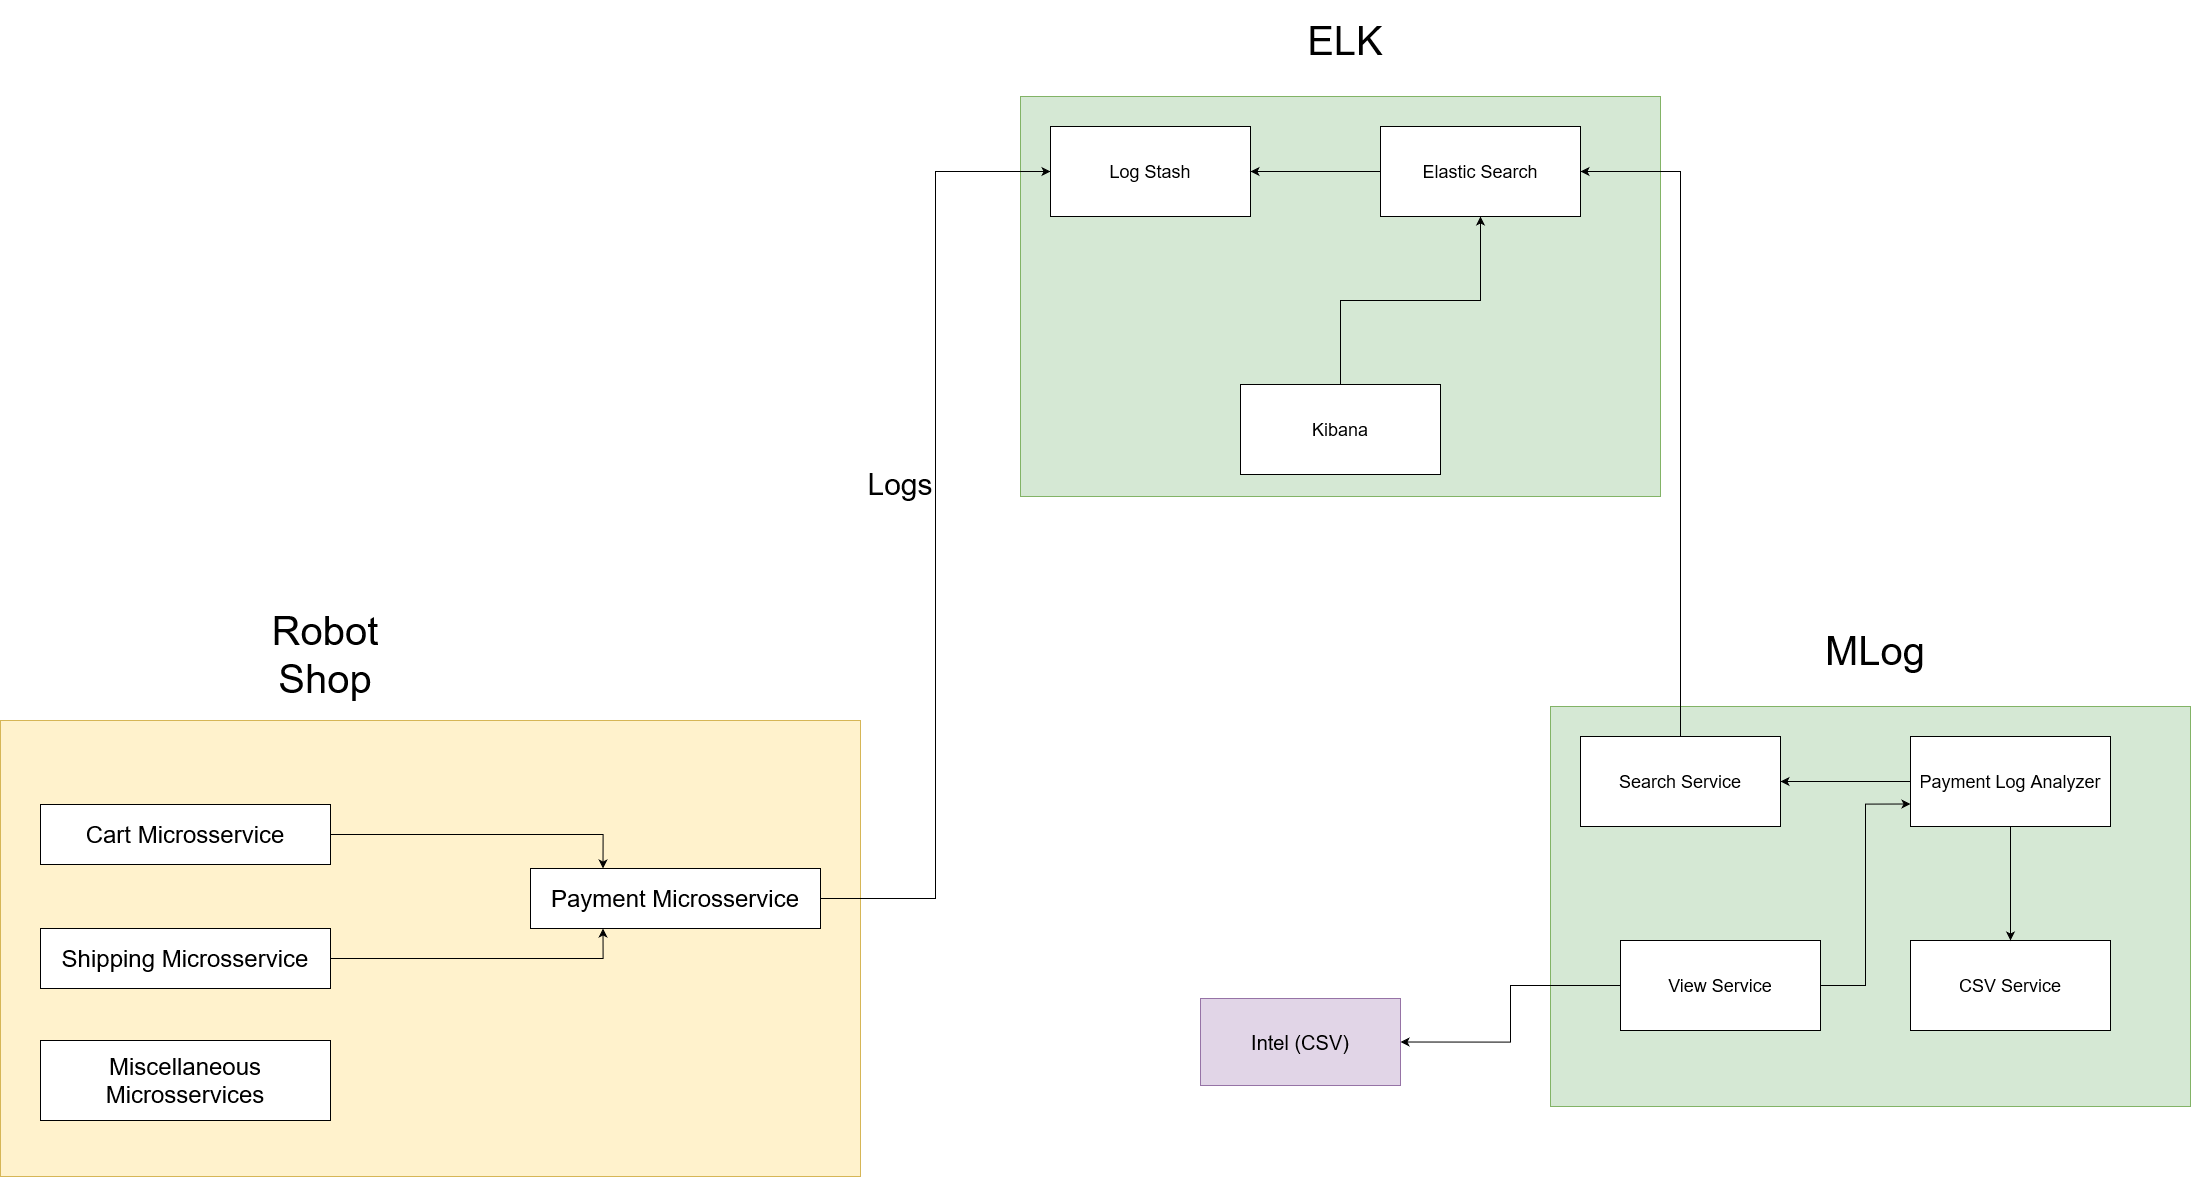
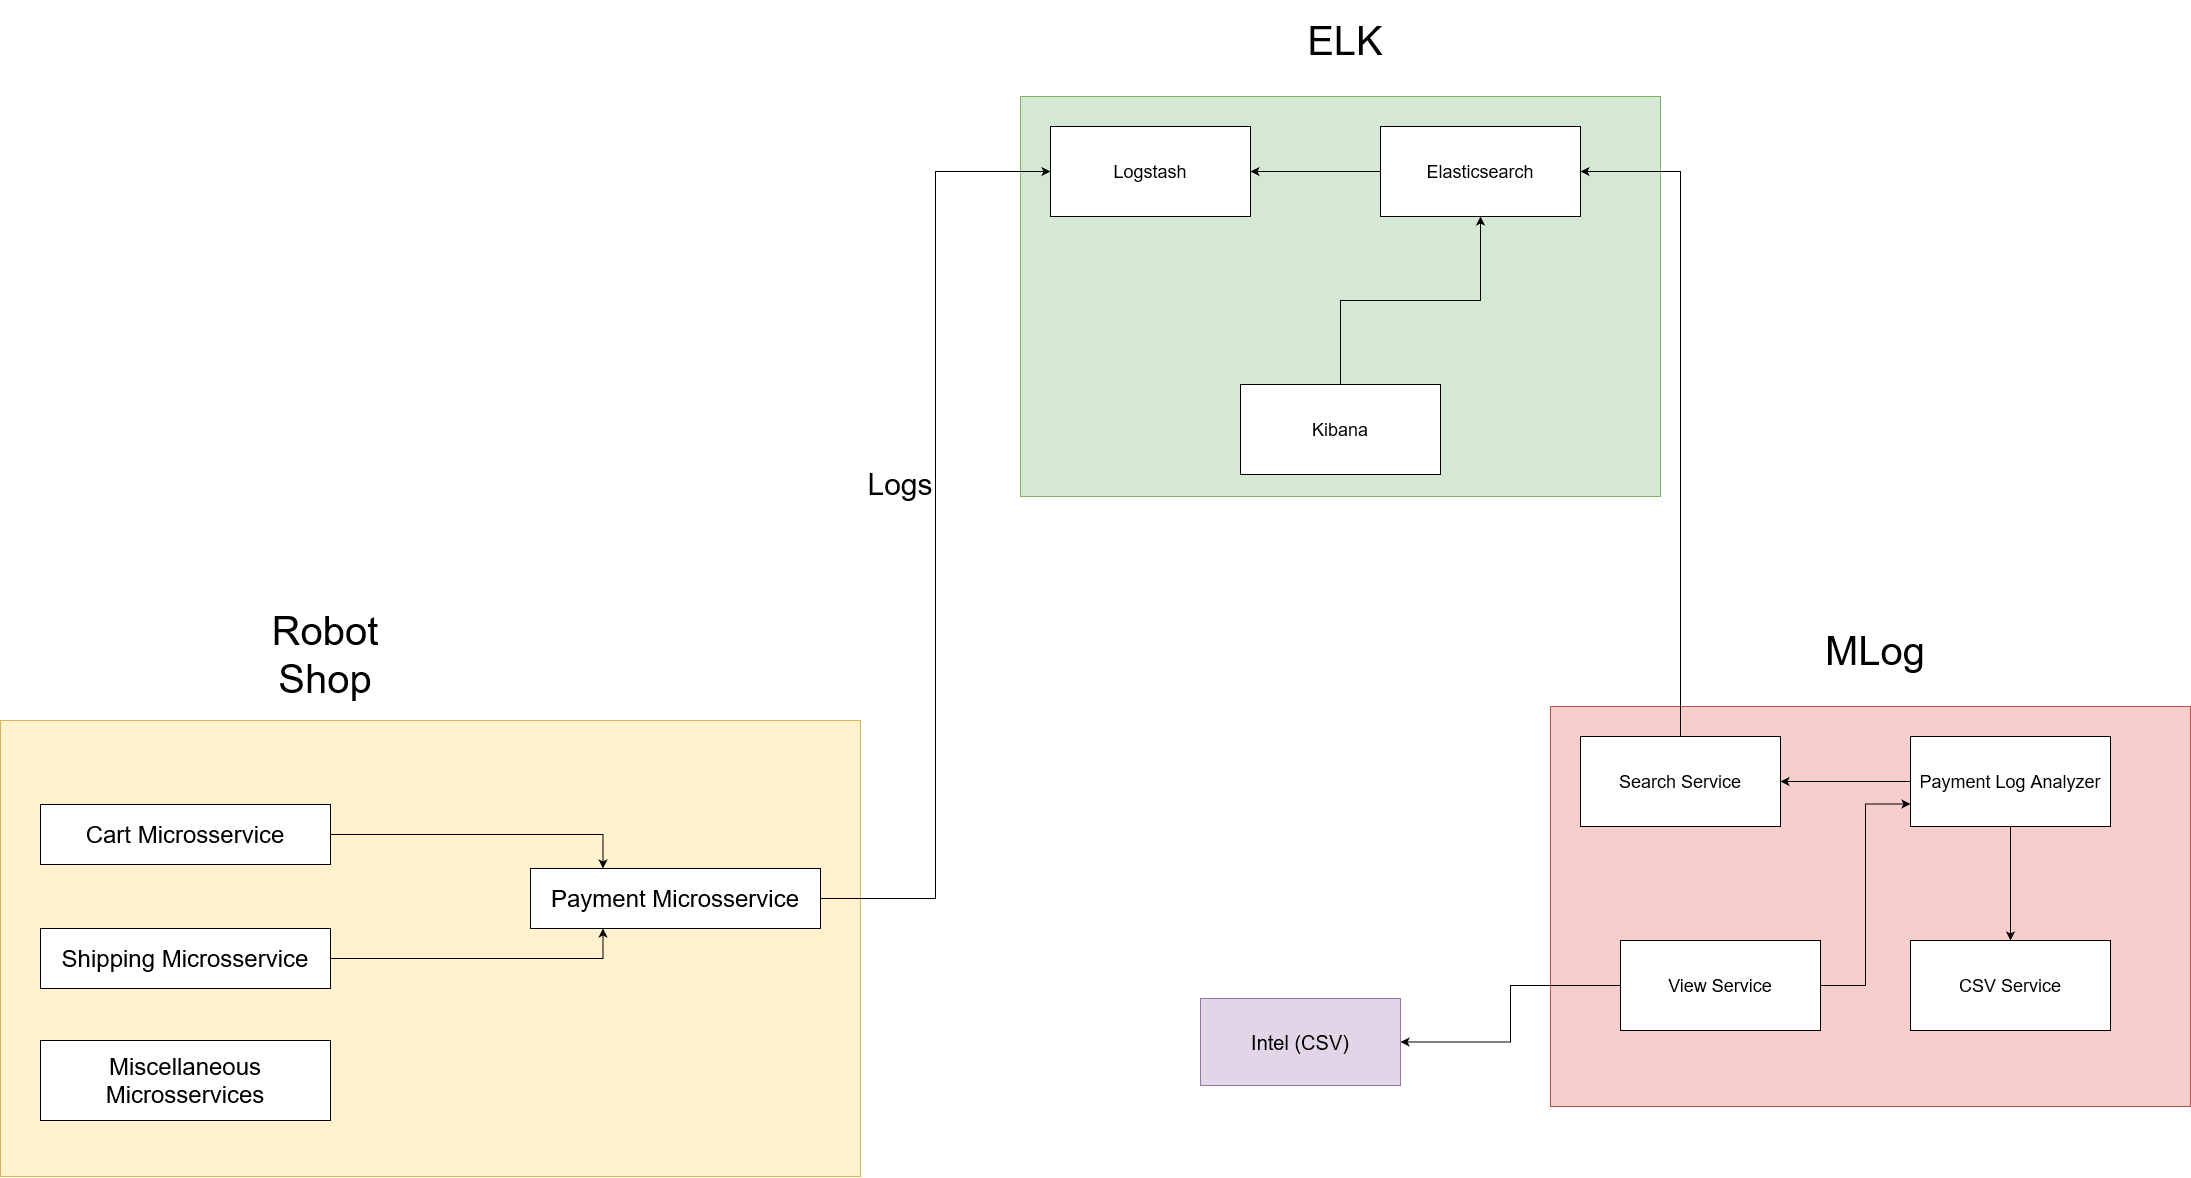
Article 1.1 update (#24)
* article removed

* article updated

diff --git a/article/sections/architecture.tex b/article/sections/architecture.tex
@@ -11,7 +11,7 @@ The architecture used on this project is the integration of three systems: Robot
 
 \subsection{Robot Shop}
 
-The e-commerce that has the logs analyzed on this paper is the Robot Shop \cite{robotshop}, it is a simple microservices-based e-commerce with open source. There are 12 services on the Robot Shop, but the information analyzed is contained on the payment microservice, as this service carries the data of both shipping and cart services, on purchase.
+The e-commerce which logs were analyzed on this paper is the Robot Shop \cite{robotshop}, it is a simple microservices-based e-commerce with open source. There are 12 services on the Robot Shop, but the information analyzed is contained on the payment microservice, as this service carries the data of both shipping and cart services.
 
 \begin{figure}[htbp]
 \centering
@@ -22,7 +22,7 @@ The e-commerce that has the logs analyzed on this paper is the Robot Shop \cite{
 
 \subsection{ELK}
 
-ELK \cite{elk} is a project that groups kibana \cite{kibana}, elastic search \cite{elasticsearch} and logstash \cite{logstash}. The logs generated on the payment microservice are sent and stored on logstash. After creating an index pattern on kibana, it is possible to see the logs store on logstash through kibana is interface. ELK also has the elastic search service, which can search through the stored logs to analyze the data contained on the payment is logs.
+ELK \cite{elk} is a project that groups Kibana \cite{kibana}, Elasticsearch \cite{elasticsearch} and Logstash \cite{logstash}. The logs generated on the payment microservice are sent and stored on Logstash. After creating an index pattern on Kibana, it is possible to see the logs store through kibana is interface. The Elasticsearch service is responsible for searching through the stored logs to analyze the data contained on the payment is logs.
 
 \begin{figure}[htbp]
 \centering
@@ -33,13 +33,13 @@ ELK \cite{elk} is a project that groups kibana \cite{kibana}, elastic search \ci
 
 \subsection{MLog}
 
-MLog \cite{mlog} is the project developed with this paper, and it consists on 4 services:
+MLog \cite{mlog} is the project developed with this paper, and it consists on 4 microservices:
 
 \begin{itemize}
   \item The view service, which is the front-end of MLog, it enables the filter and download of the analysis.
-  \item The payment log analyzer service is the service that receives the data on the logs to find valuable information. This service is also responsible for receiving the request from the view service, for requesting the data from the search service, and for requesting the download of the CSV contained the data analyzed.
-  \item Search service is the service that requests the queries to elastic search, it also filters the logs further to get only the data about the purchase.
-  \item CSV service is a common service that generates a CSV file based on the data passed on the request.
+  \item The payment log analyzer service is the service that gets the processed data to find valuable information. It receives the request from the view service, then requests the processed data from the search service, and, after finding the information, it requests the download of the CSV with the intel found.
+  \item Search service is the service that requests the queries to elastic search, it also processes the data further in order to get only the data about the purchase.
+  \item CSV service is a common service that generates a CSV file based on the data present on the request.
 \end{itemize}
 
 \begin{figure}[htbp]

diff --git a/article/sections/analysis.tex b/article/sections/analysis.tex
@@ -1,4 +1,14 @@
 \section{Analysis}
 
 \subsection{Logs}
+
+To process the logs, it was necessary to get the logs out of the terminal and send them somewhere our application could use. Achieving a solution for this problem proved to be a challenging task, we thought about using the output stream to a text file, but it would be difficult to analyze an unprocessed text. It would be better if our application could get the logs formatted as JSON and even better if they were sent to a server that could later be accessed by MLog for analysis.
+A Docker \cite{docker} approach seemed the best one since it was not necessary to change the Robot Shop is implementation, and the process of storing the logs would be automatized. An option we found was to use Loggly \cite{loggly} since it seemed to be easy to integrate with Docker, but we decided to try ELK because it is a common approach to this problem, so finding answers for questions would be simple, and it was also possible to use it to help with the data extraction from the logs.
+In order to get the logs from Docker, it was necessary to use a driver to send the logs to ELK. The driver that was applied as a bridge for the logs to pass from Robot Shop to ELK was Gelf \cite{gelfdriver}, and it was necessary to add it to the Docker Compose \cite{dockercompose} file of Robot Shop and the configuration of Logstash.
+The solution applied to solve this problem was simple but discovering it required too much effort on searching how to do it, so it was one of the most complicated tasks on this project.
+
 \subsection{Extracted Information}
+
+The sale logs are generated by the payment microservice, but a sale also generates logs about connectivity and other information internal to the service, even though the information about the payment is contained on a single log. To get the correct logs, we use queries on Elasticsearch, based on the field message, and searching for the total key, as we realized that only the correct logs had this pattern.
+Elasticsearch returns the correct logs, but it is still necessary to get only the information about the sale since the logs carry other pieces of information such as command,  host, and level. Extracting the sale is information from the logs is one of the responsibilities of MLog is search service, and this process finds only the data that will be analyzed by MLog, such as the names of the items bought, their price, and how many where bought.
+The processed data is used by the payment microservice for grouping and finding valuable intel. The information the payment service extracts consist of a list of items, each with their name, number of times it appeared on transactions, the average price of the item, the total number of items bought, and the total price of that item.

diff --git a/article/sections/conclusion.tex b/article/sections/conclusion.tex
@@ -1,1 +1,8 @@
 \section{Conclusion}
+Our purpose with this article was to discover the challenges that surround a Microservice Architecture development. That objective was accomplished through the development of a new Microservice-based tool that works besides already well-established services like Elasticsearch and Kibana, this way we can experience what are the difficulties that exist when developing services through a Microservice Architecture.
+
+Through our development, we discovered tools like a pre-built eCommerce shop that saved us a lot of time by providing a basic but loaded with all the features we needed to feed our planned analysis service. As a given on a Microservice architecture, all the services are distributed on different containers, on our case we used Docker. 
+
+The next step was setting up a connection between the two, to do this we used the ELK stack that provided us with a way to receive all the logs from the Shop through the Logstash and Elasticsearch as a way to index all the data being received.
+
+And the final step was figuring out how to make a proper analysis, this problem was solved through the use of Python and some Elasticsearch functions. The result is provided to our users by our own front-end based on Vue with data from our Djangorest back-end.

diff --git a/article/sections/introduction.tex b/article/sections/introduction.tex
@@ -2,6 +2,6 @@
 
 Microservices architecture is being widely used to solve complex problems on distributed systems. As such, our main objective is the understanding of the inner workings of Microservices and how they can be applied in a close-to-reality scenario where we could see its benefits and disadvantages.
 
-To do this, we selected an e-Commerce sample shop, Robot Shop, through this application we can see what are the needs of a real web service and where improvements could be made. By reviewing the shop functionality, we found an opportunity where we could use its logs as a source of intelligence to the eCommerce management.
+To do this, we selected an e-Commerce shop example, Robot Shop, through this application we can see what are the needs of a real web service and where improvements could be made. By reviewing the shop functionality, we found an opportunity where we could use its logs as a source of intelligence to the eCommerce management.
 
 Our focus then changed to how we could make this work. With the use of tools like Docker containers, Elastic Search and Python, we were able to receive, index and analyze the logs needed. This article will report our findings through the many steps crossed while the Development of this tool was being done.
